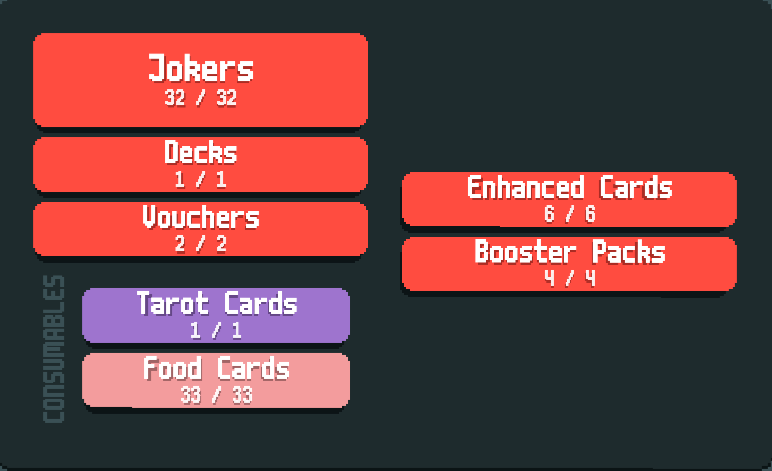
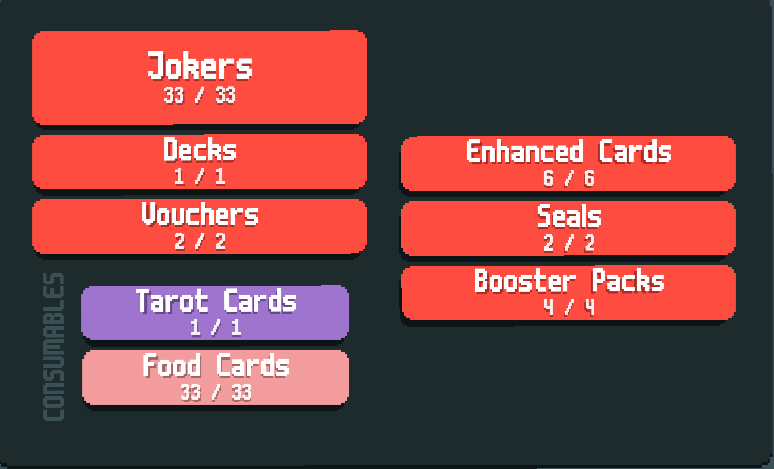
Add Two new Seals

diff --git a/README.md b/README.md
@@ -24,13 +24,14 @@
 <hr>
 <h2>Elements</h2>
 <ul>
-    <li>32+ Jokers</li>
+    <li>33+ Jokers</li>
     <li>27 Foods (+6 Cross-Mod)</li>
     <li>4 Booster Packs</li>
     <li>6+ Enhancements</li>
     <li>2 Vouchers</li>
     <li>1 Deck</li>
     <li>1 Tarot</li>
+    <li>2 Seals</li>
     <li>1 Partner (Cross-Mod)</li>
 </ul>
 
